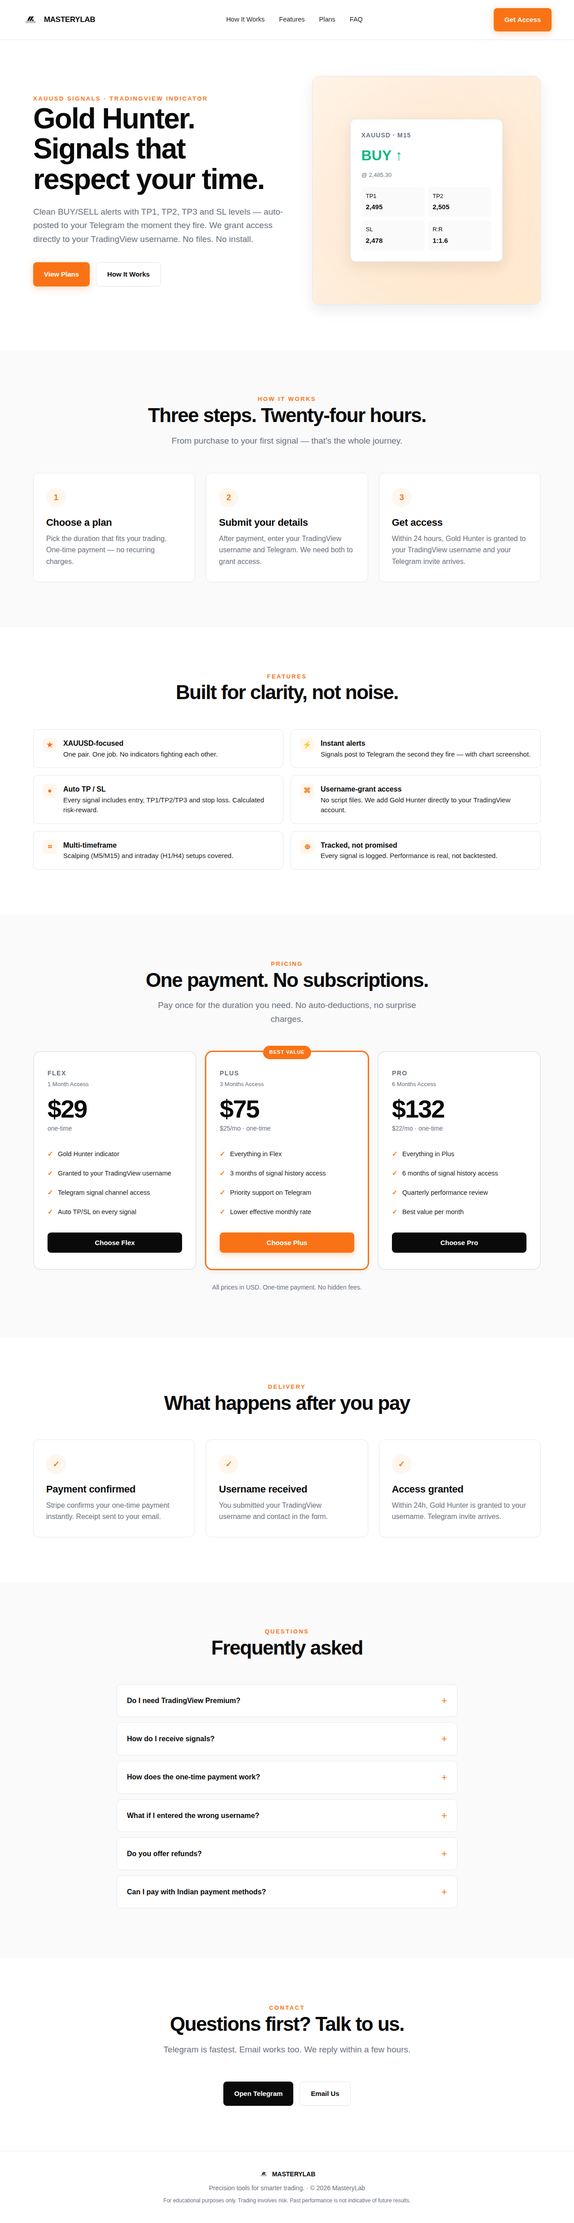
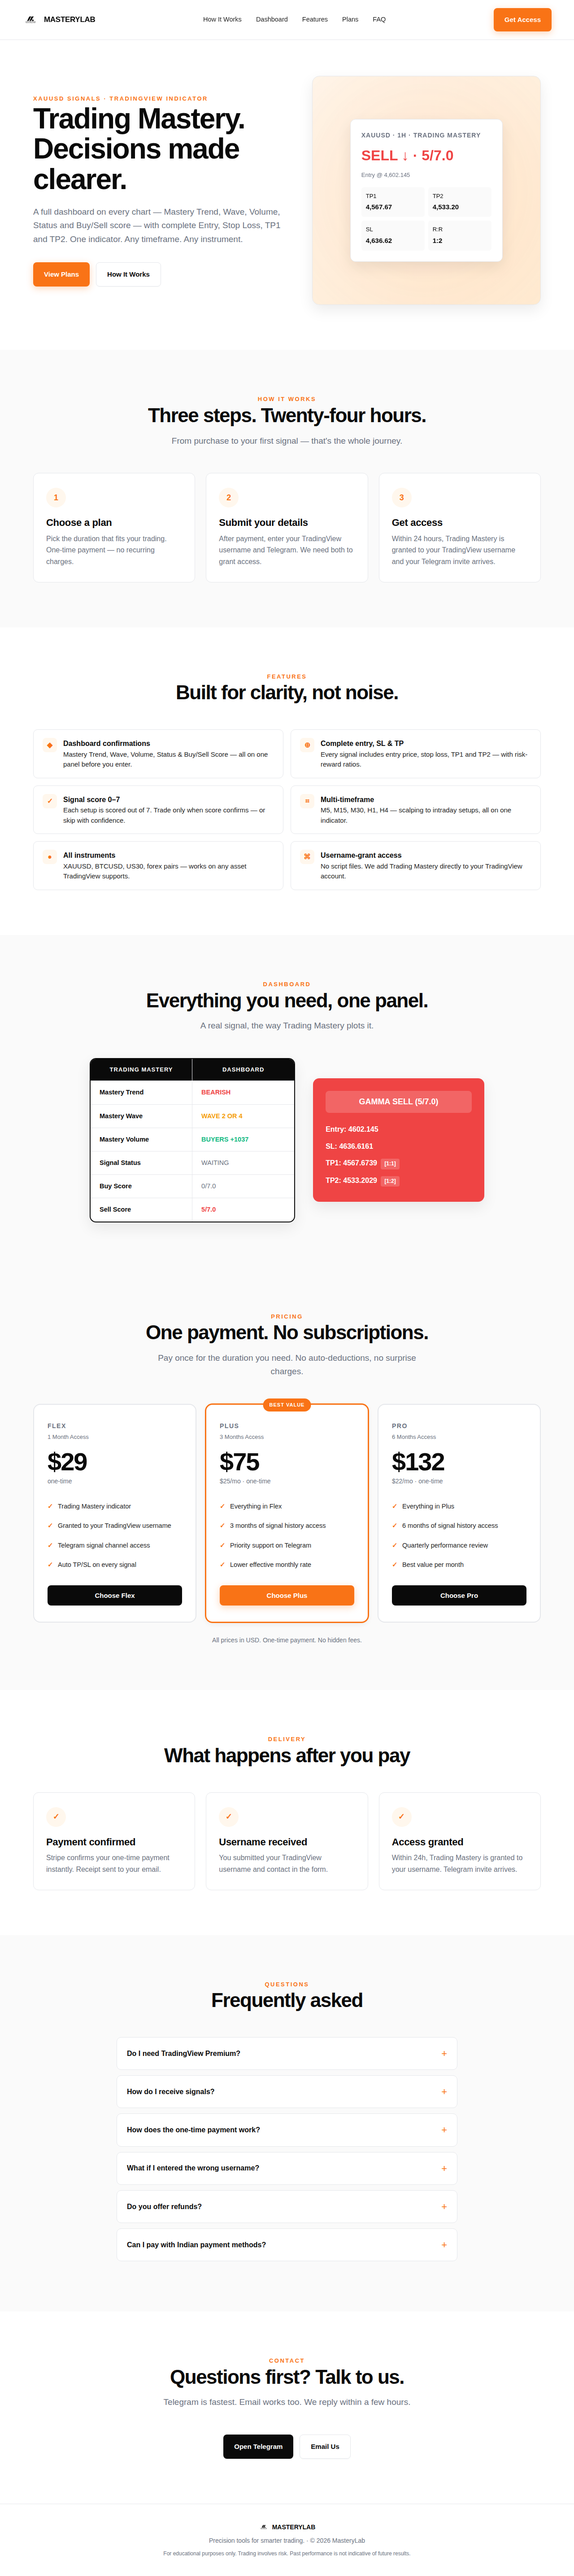
Add Trading Mastery dashboard preview + rebranding

diff --git a/index.html b/index.html
@@ -3,8 +3,8 @@
 <head>
 <meta charset="UTF-8">
 <meta name="viewport" content="width=device-width, initial-scale=1.0">
-<title>MasteryLab — Gold Hunter XAUUSD Signals for TradingView</title>
-<meta name="description" content="Gold Hunter: automated XAUUSD BUY/SELL signals with TP/SL, granted to your TradingView username. Lifetime-style access, one-time payment.">
+<title>MasteryLab — Trading Mastery XAUUSD Signals for TradingView</title>
+<meta name="description" content="Trading Mastery: TradingView indicator with dashboard confirmations, entry/SL/TP signals, 0-7 scoring, multi-timeframe, all instruments. One-time payment.">
 <link rel="icon" type="image/png" href="assets/masterylab_logo_small.png">
 <style>
   /* === MOTION.DEV DESIGN LANGUAGE ===
@@ -226,6 +226,85 @@
   }
   .plan .btn { margin-top: auto; }
 
+  /* === DASHBOARD PREVIEW === */
+  .dash-wrap {
+    display: grid;
+    grid-template-columns: 1.2fr 1fr;
+    gap: 40px;
+    align-items: center;
+    max-width: 880px;
+    margin: 0 auto;
+  }
+  .dash-card {
+    background: white;
+    border: 2px solid var(--ink);
+    border-radius: 14px;
+    overflow: hidden;
+    box-shadow: var(--shadow-lg);
+  }
+  .dash-row {
+    display: grid;
+    grid-template-columns: 1fr 1fr;
+    border-bottom: 1px solid var(--line);
+  }
+  .dash-row:last-child { border-bottom: none; }
+  .dash-cell {
+    padding: 14px 20px;
+    font-size: 14.5px;
+    font-weight: 600;
+  }
+  .dash-cell:first-child { border-right: 1px solid var(--line); }
+  .dash-head {
+    background: var(--ink);
+    color: white;
+    text-align: center;
+    font-weight: 800;
+    letter-spacing: 1px;
+    font-size: 13px;
+    text-transform: uppercase;
+  }
+  .dash-red { color: #ef4444; font-weight: 700; }
+  .dash-red-strong { color: #ef4444; font-weight: 800; }
+  .dash-orange { color: #f59e0b; font-weight: 700; }
+  .dash-green { color: #10b981; font-weight: 700; }
+  .dash-muted { color: var(--muted); font-weight: 500; }
+
+  .dash-signal {
+    background: #ef4444;
+    border-radius: 14px;
+    padding: 28px;
+    color: white;
+    box-shadow: var(--shadow-lg);
+  }
+  .sig-badge {
+    background: rgba(255,255,255,0.18);
+    color: white;
+    font-weight: 800;
+    font-size: 18px;
+    text-align: center;
+    padding: 10px 14px;
+    border-radius: 8px;
+    margin-bottom: 18px;
+  }
+  .sig-meta {
+    font-size: 16px;
+    font-weight: 600;
+    padding: 6px 0;
+    color: white;
+  }
+  .rr {
+    display: inline-block;
+    background: rgba(255,255,255,0.18);
+    padding: 2px 8px;
+    border-radius: 4px;
+    font-size: 12px;
+    margin-left: 4px;
+  }
+
+  @media (max-width: 720px) {
+    .dash-wrap { grid-template-columns: 1fr; gap: 24px; }
+  }
+
   /* === FORM === */
   .formsec { background: var(--bg-alt); }
   .formcard {
@@ -316,6 +395,7 @@
     </a>
     <nav class="navlinks">
       <a href="#how">How It Works</a>
+      <a href="#dashboard">Dashboard</a>
       <a href="#features">Features</a>
       <a href="#plans">Plans</a>
       <a href="#faq">FAQ</a>
@@ -329,8 +409,8 @@
   <div class="wrap hero-grid">
     <div class="reveal">
       <div class="eyebrow">XAUUSD Signals · TradingView Indicator</div>
-      <h1>Gold Hunter. Signals that respect your time.</h1>
-      <p class="lead" style="margin-top:24px">Clean BUY/SELL alerts with TP1, TP2, TP3 and SL levels — auto-posted to your Telegram the moment they fire. We grant access directly to your TradingView username. No files. No install.</p>
+      <h1>Trading Mastery. Decisions made clearer.</h1>
+      <p class="lead" style="margin-top:24px">A full dashboard on every chart — Mastery Trend, Wave, Volume, Status and Buy/Sell score — with complete Entry, Stop Loss, TP1 and TP2. One indicator. Any timeframe. Any instrument.</p>
       <div class="hero-actions">
         <a href="#plans" class="btn btn-primary">View Plans</a>
         <a href="#how" class="btn btn-ghost">How It Works</a>
@@ -338,14 +418,14 @@
     </div>
     <div class="hero-visual reveal">
       <div class="signal-card">
-        <div class="pair">XAUUSD · M15</div>
-        <div class="dir buy">BUY ↑</div>
-        <div style="font-size:13px;color:var(--muted);margin-top:4px">@ 2,485.30</div>
+        <div class="pair">XAUUSD · 1H · TRADING MASTERY</div>
+        <div class="dir sell">SELL ↓ · 5/7.0</div>
+        <div style="font-size:13px;color:var(--muted);margin-top:4px">Entry @ 4,602.145</div>
         <div class="levels">
-          <div>TP1<strong>2,495</strong></div>
-          <div>TP2<strong>2,505</strong></div>
-          <div>SL<strong>2,478</strong></div>
-          <div>R:R<strong>1:1.6</strong></div>
+          <div>TP1<strong>4,567.67</strong></div>
+          <div>TP2<strong>4,533.20</strong></div>
+          <div>SL<strong>4,636.62</strong></div>
+          <div>R:R<strong>1:2</strong></div>
         </div>
       </div>
     </div>
@@ -374,7 +454,7 @@
       <div class="step reveal">
         <div class="step-num">3</div>
         <h3>Get access</h3>
-        <p>Within 24 hours, Gold Hunter is granted to your TradingView username and your Telegram invite arrives.</p>
+        <p>Within 24 hours, Trading Mastery is granted to your TradingView username and your Telegram invite arrives.</p>
       </div>
     </div>
   </div>
@@ -389,28 +469,78 @@
     </div>
     <div class="features">
       <div class="feat reveal">
-        <div class="feat-icon">★</div>
-        <div><strong>XAUUSD-focused</strong><p>One pair. One job. No indicators fighting each other.</p></div>
-      </div>
-      <div class="feat reveal">
-        <div class="feat-icon">⚡</div>
-        <div><strong>Instant alerts</strong><p>Signals post to Telegram the second they fire — with chart screenshot.</p></div>
-      </div>
-      <div class="feat reveal">
-        <div class="feat-icon">●</div>
-        <div><strong>Auto TP / SL</strong><p>Every signal includes entry, TP1/TP2/TP3 and stop loss. Calculated risk-reward.</p></div>
-      </div>
-      <div class="feat reveal">
-        <div class="feat-icon">⌘</div>
-        <div><strong>Username-grant access</strong><p>No script files. We add Gold Hunter directly to your TradingView account.</p></div>
-      </div>
-      <div class="feat reveal">
-        <div class="feat-icon">⌗</div>
-        <div><strong>Multi-timeframe</strong><p>Scalping (M5/M15) and intraday (H1/H4) setups covered.</p></div>
+        <div class="feat-icon">◆</div>
+        <div><strong>Dashboard confirmations</strong><p>Mastery Trend, Wave, Volume, Status & Buy/Sell Score — all on one panel before you enter.</p></div>
       </div>
       <div class="feat reveal">
         <div class="feat-icon">⊕</div>
-        <div><strong>Tracked, not promised</strong><p>Every signal is logged. Performance is real, not backtested.</p></div>
+        <div><strong>Complete entry, SL & TP</strong><p>Every signal includes entry price, stop loss, TP1 and TP2 — with risk-reward ratios.</p></div>
+      </div>
+      <div class="feat reveal">
+        <div class="feat-icon">✓</div>
+        <div><strong>Signal score 0–7</strong><p>Each setup is scored out of 7. Trade only when score confirms — or skip with confidence.</p></div>
+      </div>
+      <div class="feat reveal">
+        <div class="feat-icon">⌗</div>
+        <div><strong>Multi-timeframe</strong><p>M5, M15, M30, H1, H4 — scalping to intraday setups, all on one indicator.</p></div>
+      </div>
+      <div class="feat reveal">
+        <div class="feat-icon">●</div>
+        <div><strong>All instruments</strong><p>XAUUSD, BTCUSD, US30, forex pairs — works on any asset TradingView supports.</p></div>
+      </div>
+      <div class="feat reveal">
+        <div class="feat-icon">⌘</div>
+        <div><strong>Username-grant access</strong><p>No script files. We add Trading Mastery directly to your TradingView account.</p></div>
+      </div>
+    </div>
+  </div>
+</section>
+
+<!-- INDICATOR DASHBOARD PREVIEW -->
+<section id="dashboard" class="sec-alt">
+  <div class="wrap">
+    <div class="sec-head reveal">
+      <div class="eyebrow">Dashboard</div>
+      <h2>Everything you need, one panel.</h2>
+      <p class="lead">A real signal, the way Trading Mastery plots it.</p>
+    </div>
+    <div class="dash-wrap reveal">
+      <div class="dash-card">
+        <div class="dash-row">
+          <div class="dash-cell dash-head">TRADING MASTERY</div>
+          <div class="dash-cell dash-head">DASHBOARD</div>
+        </div>
+        <div class="dash-row">
+          <div class="dash-cell">Mastery Trend</div>
+          <div class="dash-cell dash-red">BEARISH</div>
+        </div>
+        <div class="dash-row">
+          <div class="dash-cell">Mastery Wave</div>
+          <div class="dash-cell dash-orange">WAVE 2 OR 4</div>
+        </div>
+        <div class="dash-row">
+          <div class="dash-cell">Mastery Volume</div>
+          <div class="dash-cell dash-green">BUYERS +1037</div>
+        </div>
+        <div class="dash-row">
+          <div class="dash-cell">Signal Status</div>
+          <div class="dash-cell dash-muted">WAITING</div>
+        </div>
+        <div class="dash-row">
+          <div class="dash-cell">Buy Score</div>
+          <div class="dash-cell dash-muted">0/7.0</div>
+        </div>
+        <div class="dash-row">
+          <div class="dash-cell">Sell Score</div>
+          <div class="dash-cell dash-red-strong">5/7.0</div>
+        </div>
+      </div>
+      <div class="dash-signal reveal">
+        <div class="sig-badge sig-sell">GAMMA SELL (5/7.0)</div>
+        <div class="sig-meta">Entry: 4602.145</div>
+        <div class="sig-meta">SL: 4636.6161</div>
+        <div class="sig-meta">TP1: 4567.6739 <span class="rr">[1:1]</span></div>
+        <div class="sig-meta">TP2: 4533.2029 <span class="rr">[1:2]</span></div>
       </div>
     </div>
   </div>
@@ -431,7 +561,7 @@
         <div class="price">$29</div>
         <div class="price-note">one-time</div>
         <ul>
-          <li>Gold Hunter indicator</li>
+          <li>Trading Mastery indicator</li>
           <li>Granted to your TradingView username</li>
           <li>Telegram signal channel access</li>
           <li>Auto TP/SL on every signal</li>
@@ -483,7 +613,7 @@
         <input name="contact" required placeholder="@john or john@mail.com">
         <input type="hidden" name="plan" id="planfield" value="flex">
         <button class="btn btn-primary btn-block" type="submit" id="paybtn" style="margin-top:24px">Pay $29</button>
-        <p style="font-size:13px;color:var(--muted);margin-top:14px">After payment, we grant Gold Hunter to your TradingView username within 24 hours and send your Telegram invite.</p>
+        <p style="font-size:13px;color:var(--muted);margin-top:14px">After payment, we grant Trading Mastery to your TradingView username within 24 hours and send your Telegram invite.</p>
       </form>
     </div>
   </div>
@@ -510,7 +640,7 @@
       <div class="step reveal">
         <div class="step-num">✓</div>
         <h3>Access granted</h3>
-        <p>Within 24h, Gold Hunter is granted to your username. Telegram invite arrives.</p>
+        <p>Within 24h, Trading Mastery is granted to your username. Telegram invite arrives.</p>
       </div>
     </div>
   </div>
@@ -524,11 +654,11 @@
       <h2>Frequently asked</h2>
     </div>
     <div class="faq">
-      <details class="reveal"><summary>Do I need TradingView Premium?</summary><p>No. Gold Hunter works on the free TradingView plan.</p></details>
-      <details class="reveal"><summary>How do I receive signals?</summary><p>After access is granted, you're invited to the Gold Hunter Telegram channel where every signal posts automatically with chart screenshot.</p></details>
+      <details class="reveal"><summary>Do I need TradingView Premium?</summary><p>No. Trading Mastery works on the free TradingView plan.</p></details>
+      <details class="reveal"><summary>How do I receive signals?</summary><p>After access is granted, you're invited to the Trading Mastery Telegram channel where every signal posts automatically with chart screenshot.</p></details>
       <details class="reveal"><summary>How does the one-time payment work?</summary><p>Pay once for the duration you choose (1, 3, or 6 months). No auto-deductions, no subscription. After the period ends, you can renew at the same price.</p></details>
       <details class="reveal"><summary>What if I entered the wrong username?</summary><p>Contact us via Telegram before we grant access and we'll update it.</p></details>
-      <details class="reveal"><summary>Do you offer refunds?</summary><p>Gold Hunter is a digital access product. All sales are final. If access fails to deliver within 48h, full refund available.</p></details>
+      <details class="reveal"><summary>Do you offer refunds?</summary><p>Trading Mastery is a digital access product. All sales are final. If access fails to deliver within 48h, full refund available.</p></details>
       <details class="reveal"><summary>Can I pay with Indian payment methods?</summary><p>Yes. Stripe accepts international cards, UPI, and Google Pay.</p></details>
     </div>
   </div>
